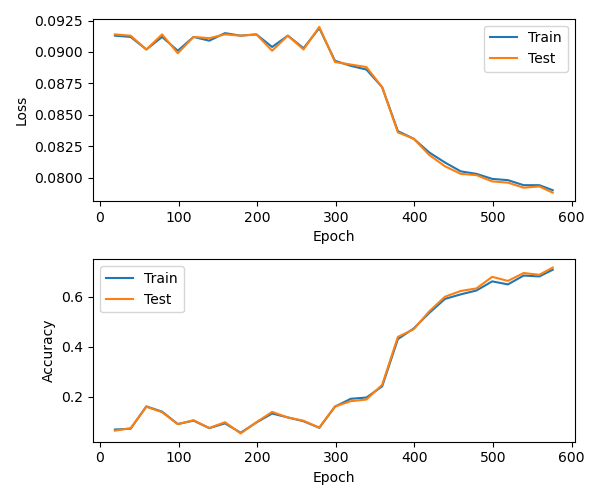
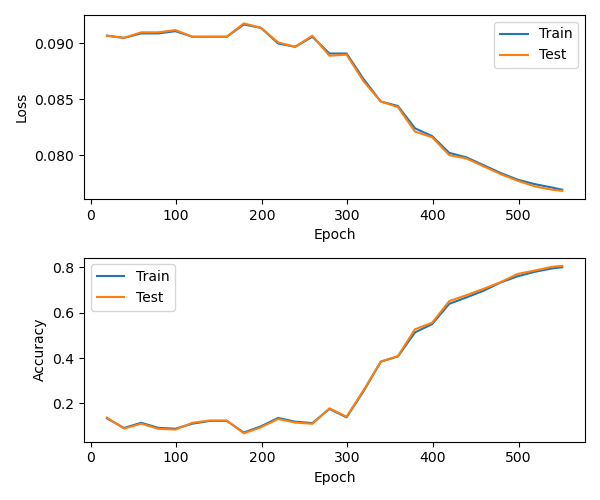
Add experimental results to readme. Add section about perturbation probability to readme.

diff --git a/main.py b/main.py
@@ -16,10 +16,10 @@ from src.scheduler import ExponentialScheduler, LinearScheduler
 def run_experiment():
 
     config = {
-        "layer_sizes": (28**2, 4096, 4096, 10),
+        "layer_sizes": (28**2, 2048, 2048, 2048, 10),
         "params_type": "trinary",        # binary, trinary
         "dataset": "mnist",
-        "batch_size": 1024,
+        "batch_size": 512,
         "num_targets": 10,
         "num_workers": 4,
         "temp_initial": 0.06,

diff --git a/README.md b/README.md
@@ -89,13 +89,11 @@ The following experiments tested simulated annealing for fully connected neural 
 
 ## Discussion
 
-Apart from the fact that one should probably not optimize neural networks with simulated annealing, it is fun to play around with JAX and neural wetworks with discrete weights.
+Apart from the fact that one should probably not optimize neural networks with simulated annealing, it is fun to play around with JAX and neural wetworks with discrete weights. Despite the high dimensionality of the used neural network, an accuracy of over 80% was achieved.
 
-Despite the high dimensionality of the neural network used with discrete trinary parameter configuration, ???% accuracy was achieved.
+Getting the hyperparameters right for simulated annealing is a bit cumbersome. It required quite a bit of trial and error to get the initial temperature as well as the annealing schedule right.
 
-Getting the hyperparameters for simulated annealing is a bit cumbersome. To optimize the weights of neural networks, involved a bit of trial and error to get the initial temperature as well as the annealing schedule right.
-
-Another difficulty regarding the neural networks, is the correct normalization of the network's predictions in case of discrete network parameters and step activation functions. It turns out that this is a crucial step before common loss functions can meaningfully applied.
+Another difficulty regarding the neural networks is the correct normalization of the network's predictions in case of discrete network parameters and step activation functions. It turns out that this is a crucial step before common loss functions can be meaningfully applied.
 
 
 ## Citation
